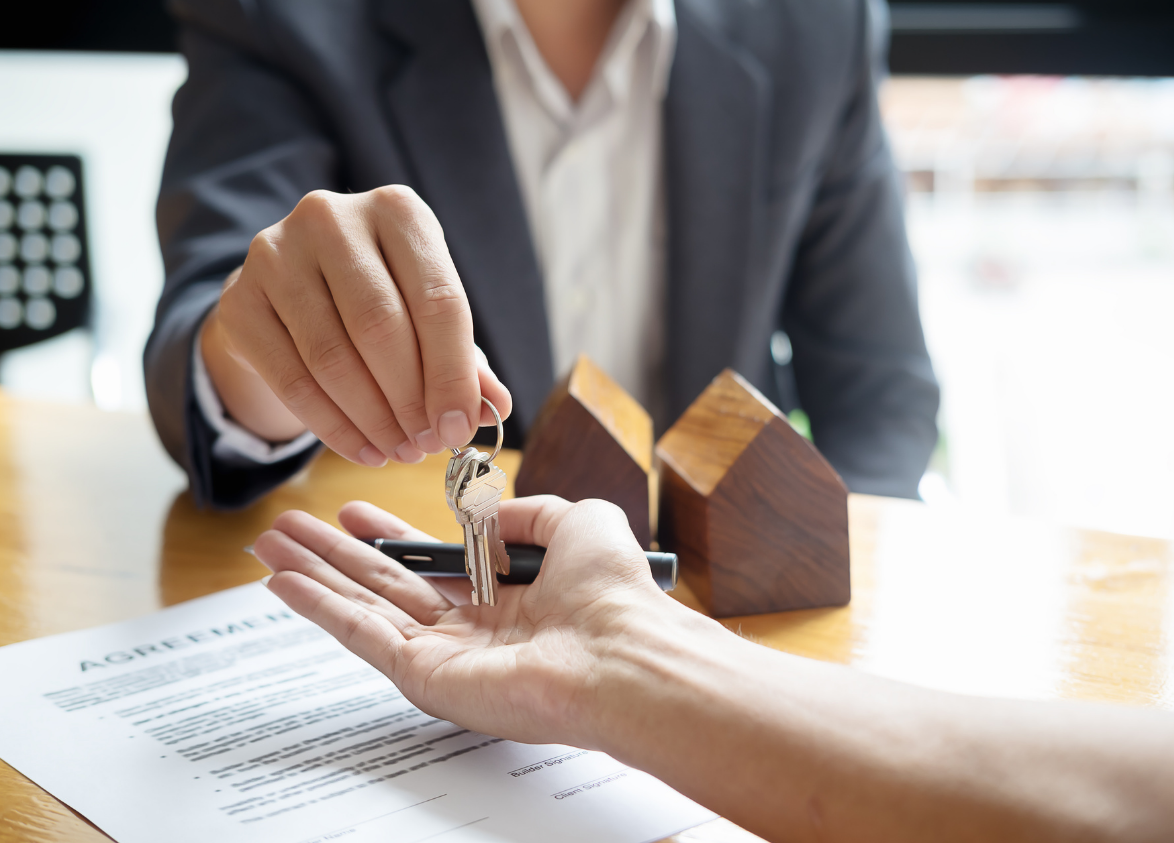
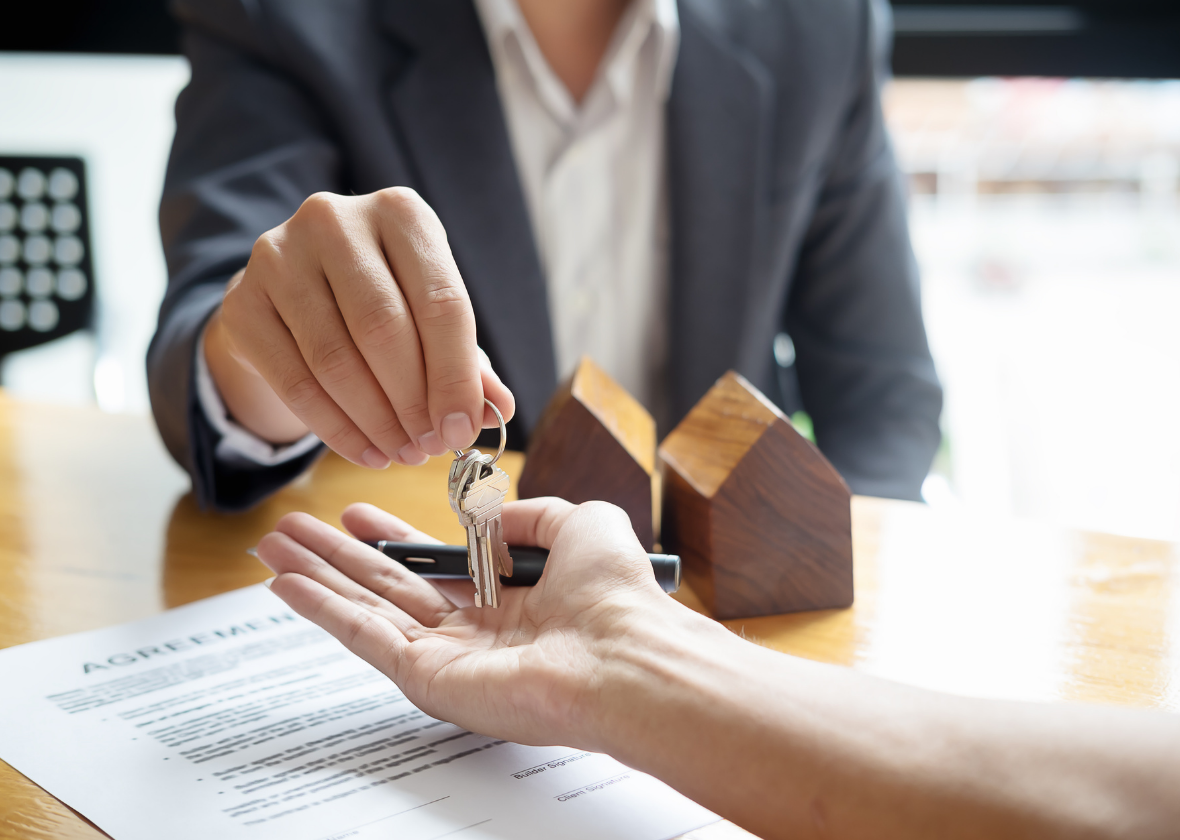
Finally Done

diff --git a/Flat-expert/src/Components/Betrungs.jsx b/Flat-expert/src/Components/Betrungs.jsx
@@ -48,8 +48,12 @@ const Betrungs = () => {
           </p>
         </div>
         {/* Right side */}
-        <div className="max-w-[700px] md:w-1/2 p-10 bg-white md:ml-20 md:mr-0 mb-8 md:mb-0 mt-4 md:mt-0">
-          <img src={img3} alt="Placeholder" className="w-full max-h-[75vh]" />
+        <div className="max-w-[700px] p-10 bg-white md:ml-10 md:mr-0 mb-8 md:mb-0 mt-4 md:mt-0">
+          <img
+            src={img3}
+            alt="Placeholder"
+            className="w-full max-h-[85vh] mt-20"
+          />
         </div>
       </div>
     </div>
